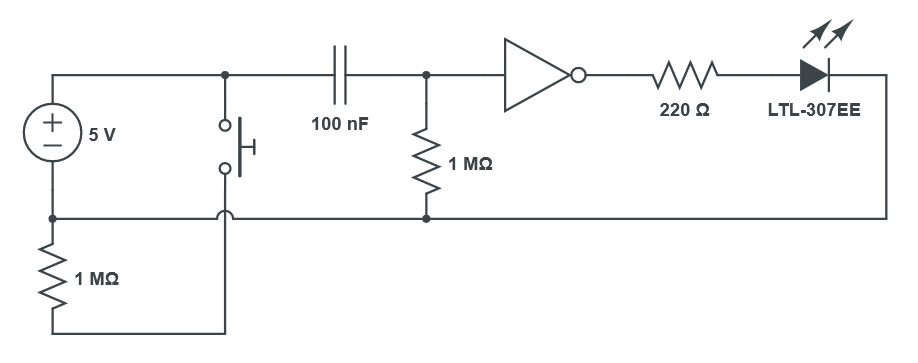
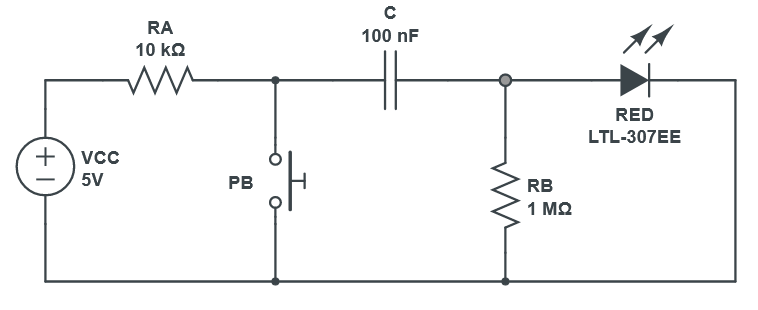
paso a paso

diff --git a/_posts/2021-06-26-8-bit-computer.md b/_posts/2021-06-26-8-bit-computer.md
@@ -1410,18 +1410,26 @@ Explanation source: [electronics-fun.com]([/](https://electronics-fun.com/7-segm
       * A capacitor in the nano farad get's us in the nano seconds range, together a resistor between 100 and 1k Ohm should do the trick.
       * Check this useful [table for capacitor values]({{ site.url }}/downloads/Capacitor-Codes.pdf)
       * This "edge" detector circuit has to actually be negative. Stable high and then a sharp decrease to low that bounces back to high. It can be achieved in 2 ways:
+      #### Positive RC edge detector circuit
         * Using a smiliar RC logic we used for the RAM (and we can borrow ahead from the kit either a NAND gate or a hex inverter to invert the signal like for the RAM), see the circuit below with the left 1 Mega ohm resistor * 100nF  (104 capacitor) = 0.1s pulse resistor circuit:
         ![404]({{ site.url }}/images/8bit/output/buttonedge1.PNG)
-          * The circuit is stable low because the capacitor gets charged quickly and the input draws the current from the pull-down resistor on the right.
-          * When the button is pressed the capacitor decharges via the left resistor and the input remains low
-          * Upon release the capacitor starts to get charged again, while it's charging (up to a thertain threshold) the input briefly becomes high
-          * The right resistor is for when the capacitor is empty the 5V go to that resistor and we want to limit the current from 5V to GND
-          * The capacitor actually decharges via the left resistor, which is the one we use to calculate the pulse seconds.
-        * Alternatively, instead of using an inverter gate we could swap the pull-down resistors for pull-up resistors (and the 5V connection to the button with ground)
+          * The circuit is stable low because the capacitor gets charged quickly via the RC resistor (A) (and becomes open circuit) and the input draws (or rather, sinks) the current from the pull-down resistor on the right (B).
+          * When the button is pressed the capacitor decharges fast to ground via the pushbutton (the input remains low)
+          * Upon release the capacitor starts to get charged again via the RC resistor (A) connected to VCC, while it's charging (up to a thertain threshold) the input briefly becomes high. The charge time is the pulse time, until the capacitor becomes open circuit again and the input is stable low.
+          * It's very hard to test long pulses with a LED since as the RC resistor increases (to check for a pulse visible to the human eye) the brightness decreases, you can see the tinkercad simulation below (which is slower than in real life) and the oscilloscope results:
+          ![404]({{ site.url }}/images/8bit/output/tinker1.PNG)
+          [Open tinkercad](https://www.tinkercad.com/things/hPJn0fUh2Rh-postive-edge)
+          * Note that we still need to invert the output (i.e. with a NAND, NOR or inverter chip)
+          * Note that generally the pull-down resistor has a much higher value than the RC resistor (the pull-down resistor has high resistance to keep power consumption low, the RC resistor has low resistance to keep the pulse short)
+        #### Negative RC edge detector circuit
+        * Alternatively, instead of using an inverter gate, we could just turn the pull-down resistor into a pull-up resistor (then this one becomes the RC resistor for the charge time)
         ![404]({{ site.url }}/images/8bit/output/buttonedge2.PNG)
-           * The circuit is stable high as the capacitor charges via the left pull-up resistor, becomes an open circuit and the right pull-up resistor feeds the input
-           * When the pushbutton is pressed everybody, including the capacitor, decharge via the ground terminal of the pushbutton and the circuit has low input until the capacitor charges up and becomes an open circuit and the circuit goes back to high input as the input gets the volts from the right pull-up resistor
-           * When the push button is released the capacitor decharges via the input, keeping it high.
+           * The circuit is stable high as the capacitor charges via resistor A, immedieately becomes an open circuit, and resistor B feeds the input with high logic value.
+           * When the pushbutton is pressed, the capacitor will quickly decharge to ground, and subsequently for that time the circuit has low input. While still pressing, the capacitor eventually gets charged by resistor B, and when that happens the capacitor becomes an open circuit and the pull-up resistor feeds the input again. (high) That time is the negative pulse time, therefore resistor B is the RC resistor.
+           * After release, the capacitor decharges via the input (keeps it high)
+           * You don't want to have RA as a pull-down resistor because then the current comming from resistor B will very unlikely diverge any to the capacitor, making the whole pushbutton useless and the state always high.
+           ![404]({{ site.url }}/images/8bit/output/tinker2.PNG)
+           [Open tinkercad](https://www.tinkercad.com/things/61QtdBhkgSe-negative-edge)
 
 ### Breadboard circuit to program/debug the EEPROM
 With a breaboard and jumperwires:
@@ -1438,10 +1446,10 @@ With a breaboard and jumperwires:
   * In practice, it may still work if we exceed the time specified by the datasheet, so we might just try to use or smallest resistor and capacitor values available in the kit.
   * Connect the left leg of the pushbutton to ground
   * Connect the right leg of the pushbutton to pull-up resistor A
-  * Connect the capacitor with one leg connected to pull-up resistor A and the other leg connected to pull-up resistor B and the \\(\overline{WE}\\) pin.
-  * pull-up resistor A value:
-  * pull-up resistor B value:
-  * capacitor value:
+  * Connect the capacitor with one leg connected to pull-up resistor A and the other leg connected to RC (pull-up) resistor B and the \\(\overline{WE}\\) pin.
+  * pull-up resistor A value: standard pull-up value such as 10k
+  * (pull-up) RC resistor B value: anything between 100 and 1000 ohm if you use a 1nF capacitor, such as 680 ohm. Only 220 is included in the kit (can put 2-4 in series)
+  * capacitor value: 1nF (102 capacitor code), not included in the kit. Often this capacitor has a variable value depending on the temperature, the 0.1nF (101) capacitor is more stable and could be combined with a 2k-8k resistors.
 * Then you can store data by setting the address with the DIP switches and the contents with the I/O jumperwires before pressing the pushbutton, then press the pushbutton to save.
   * You need to have \\(\overline{OE}\\) high, otherwise it would not let you save (it'll just output the contents of the EEPROM at the selected address)
 
